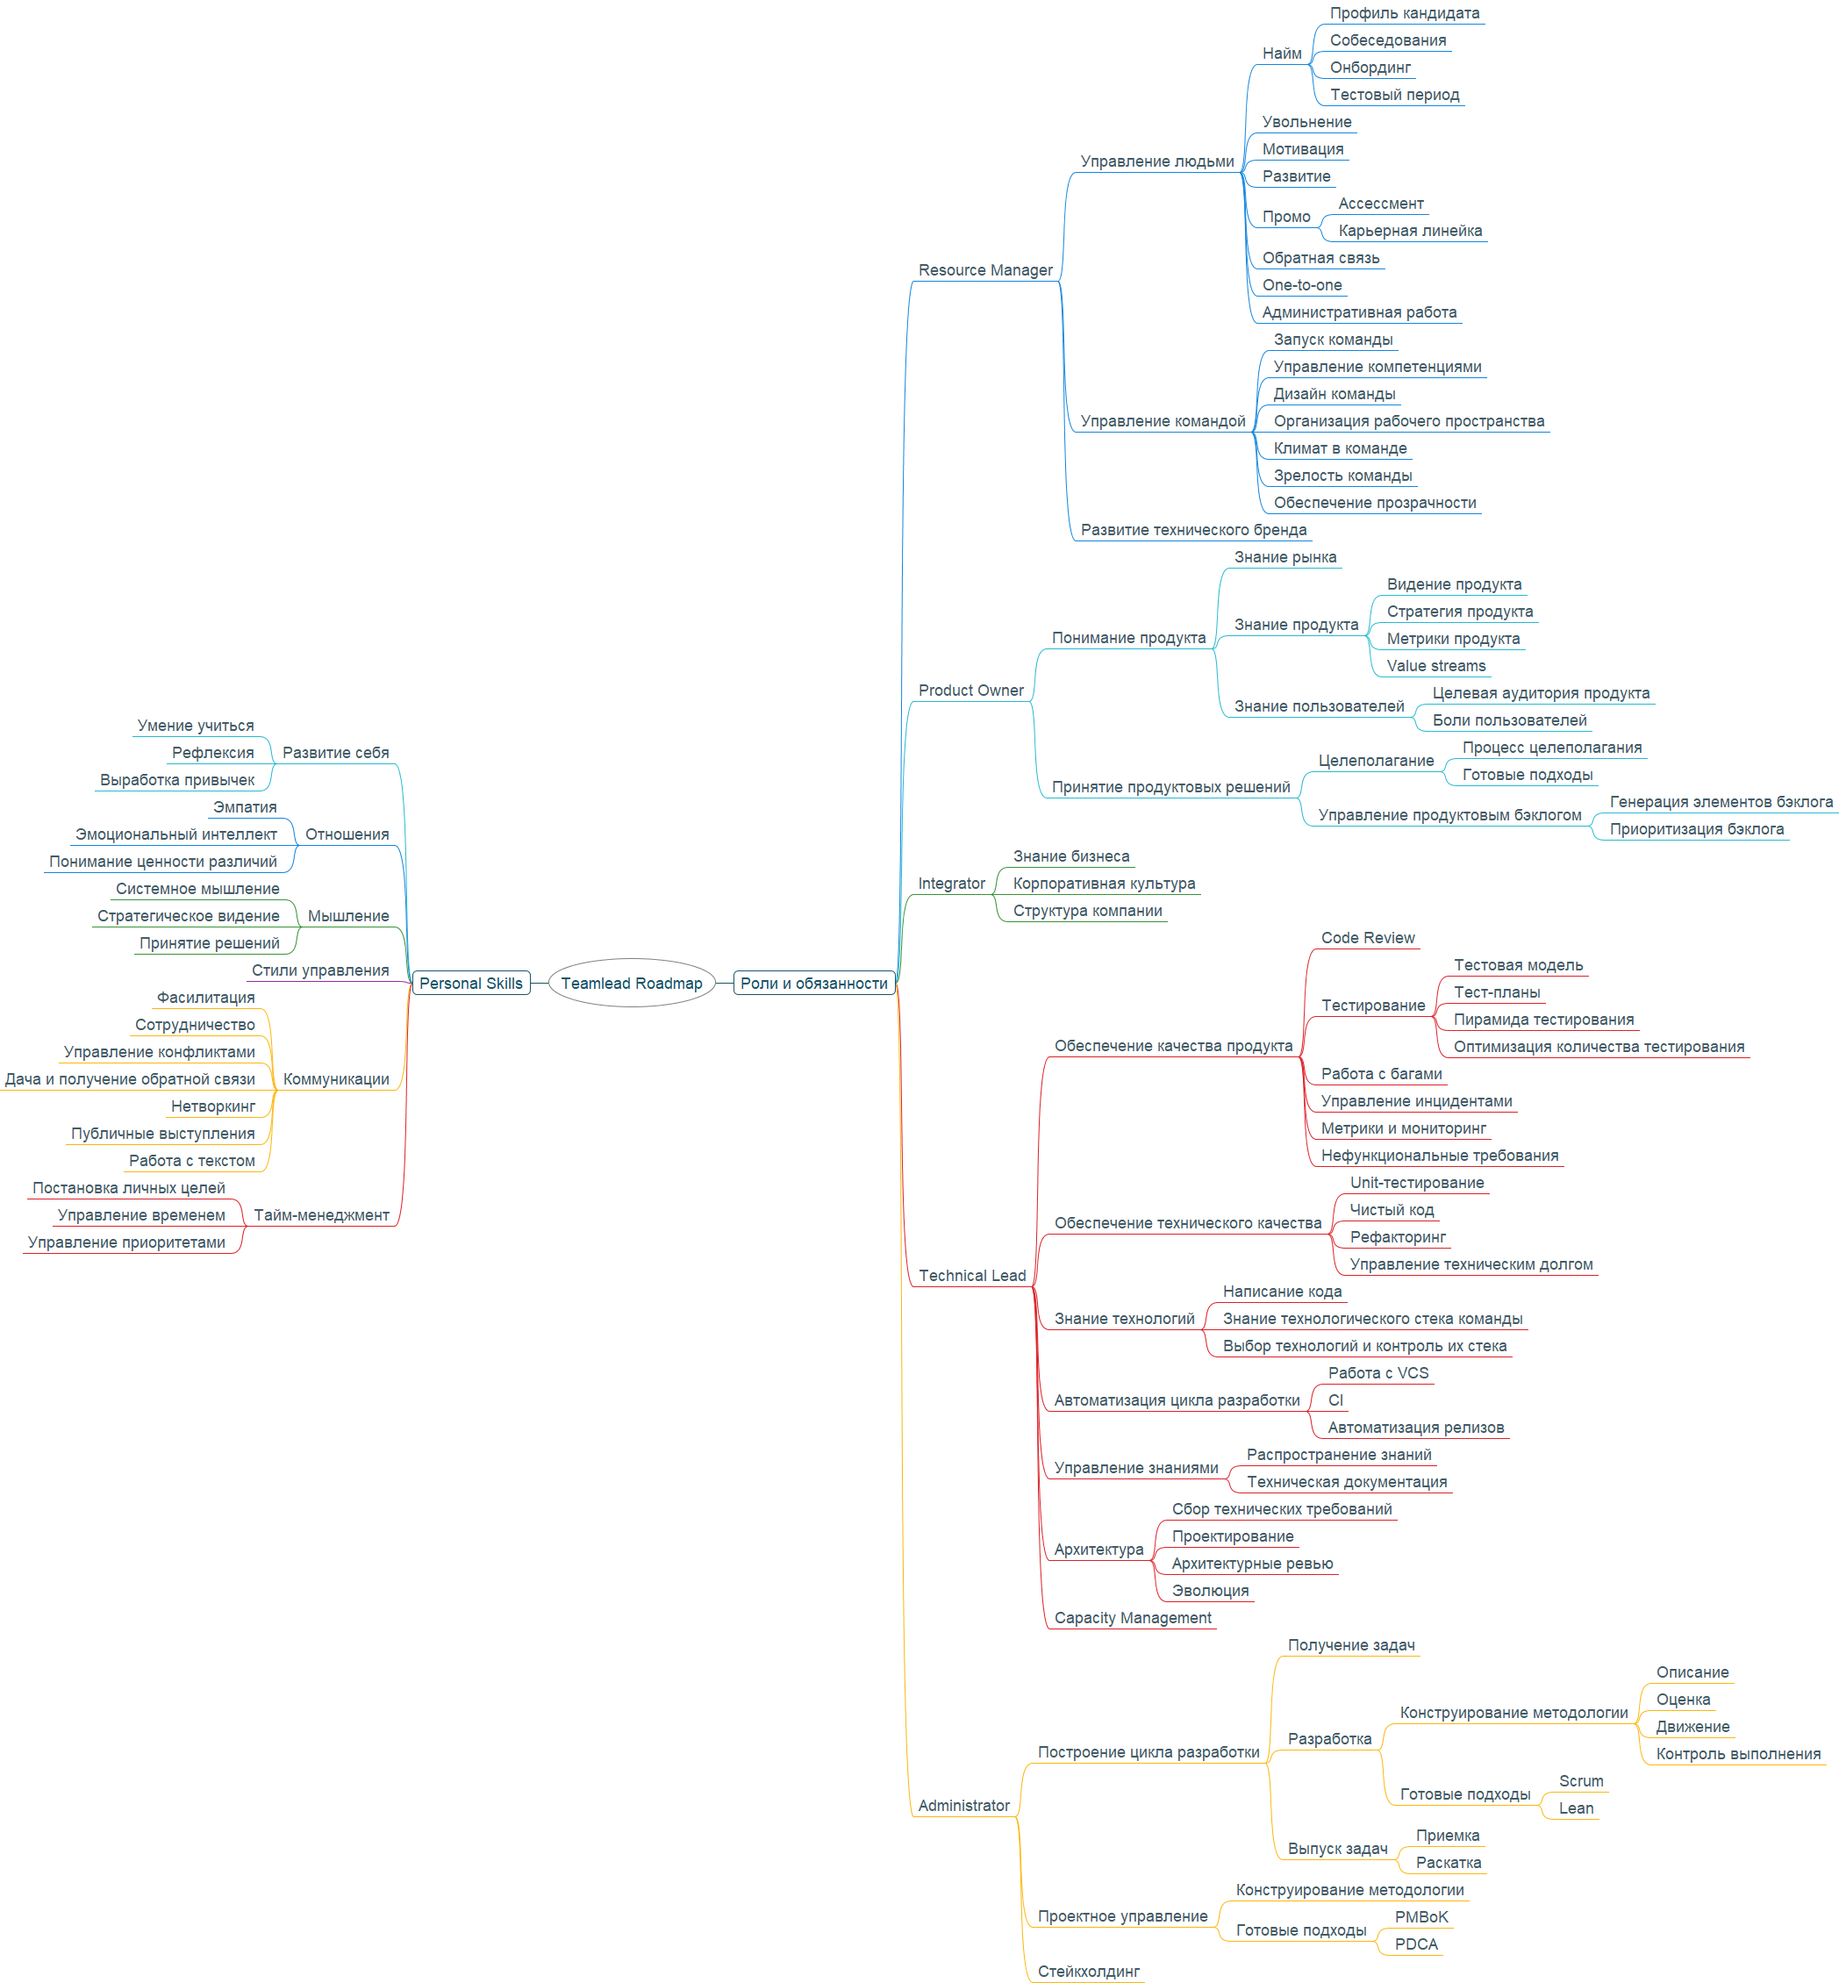
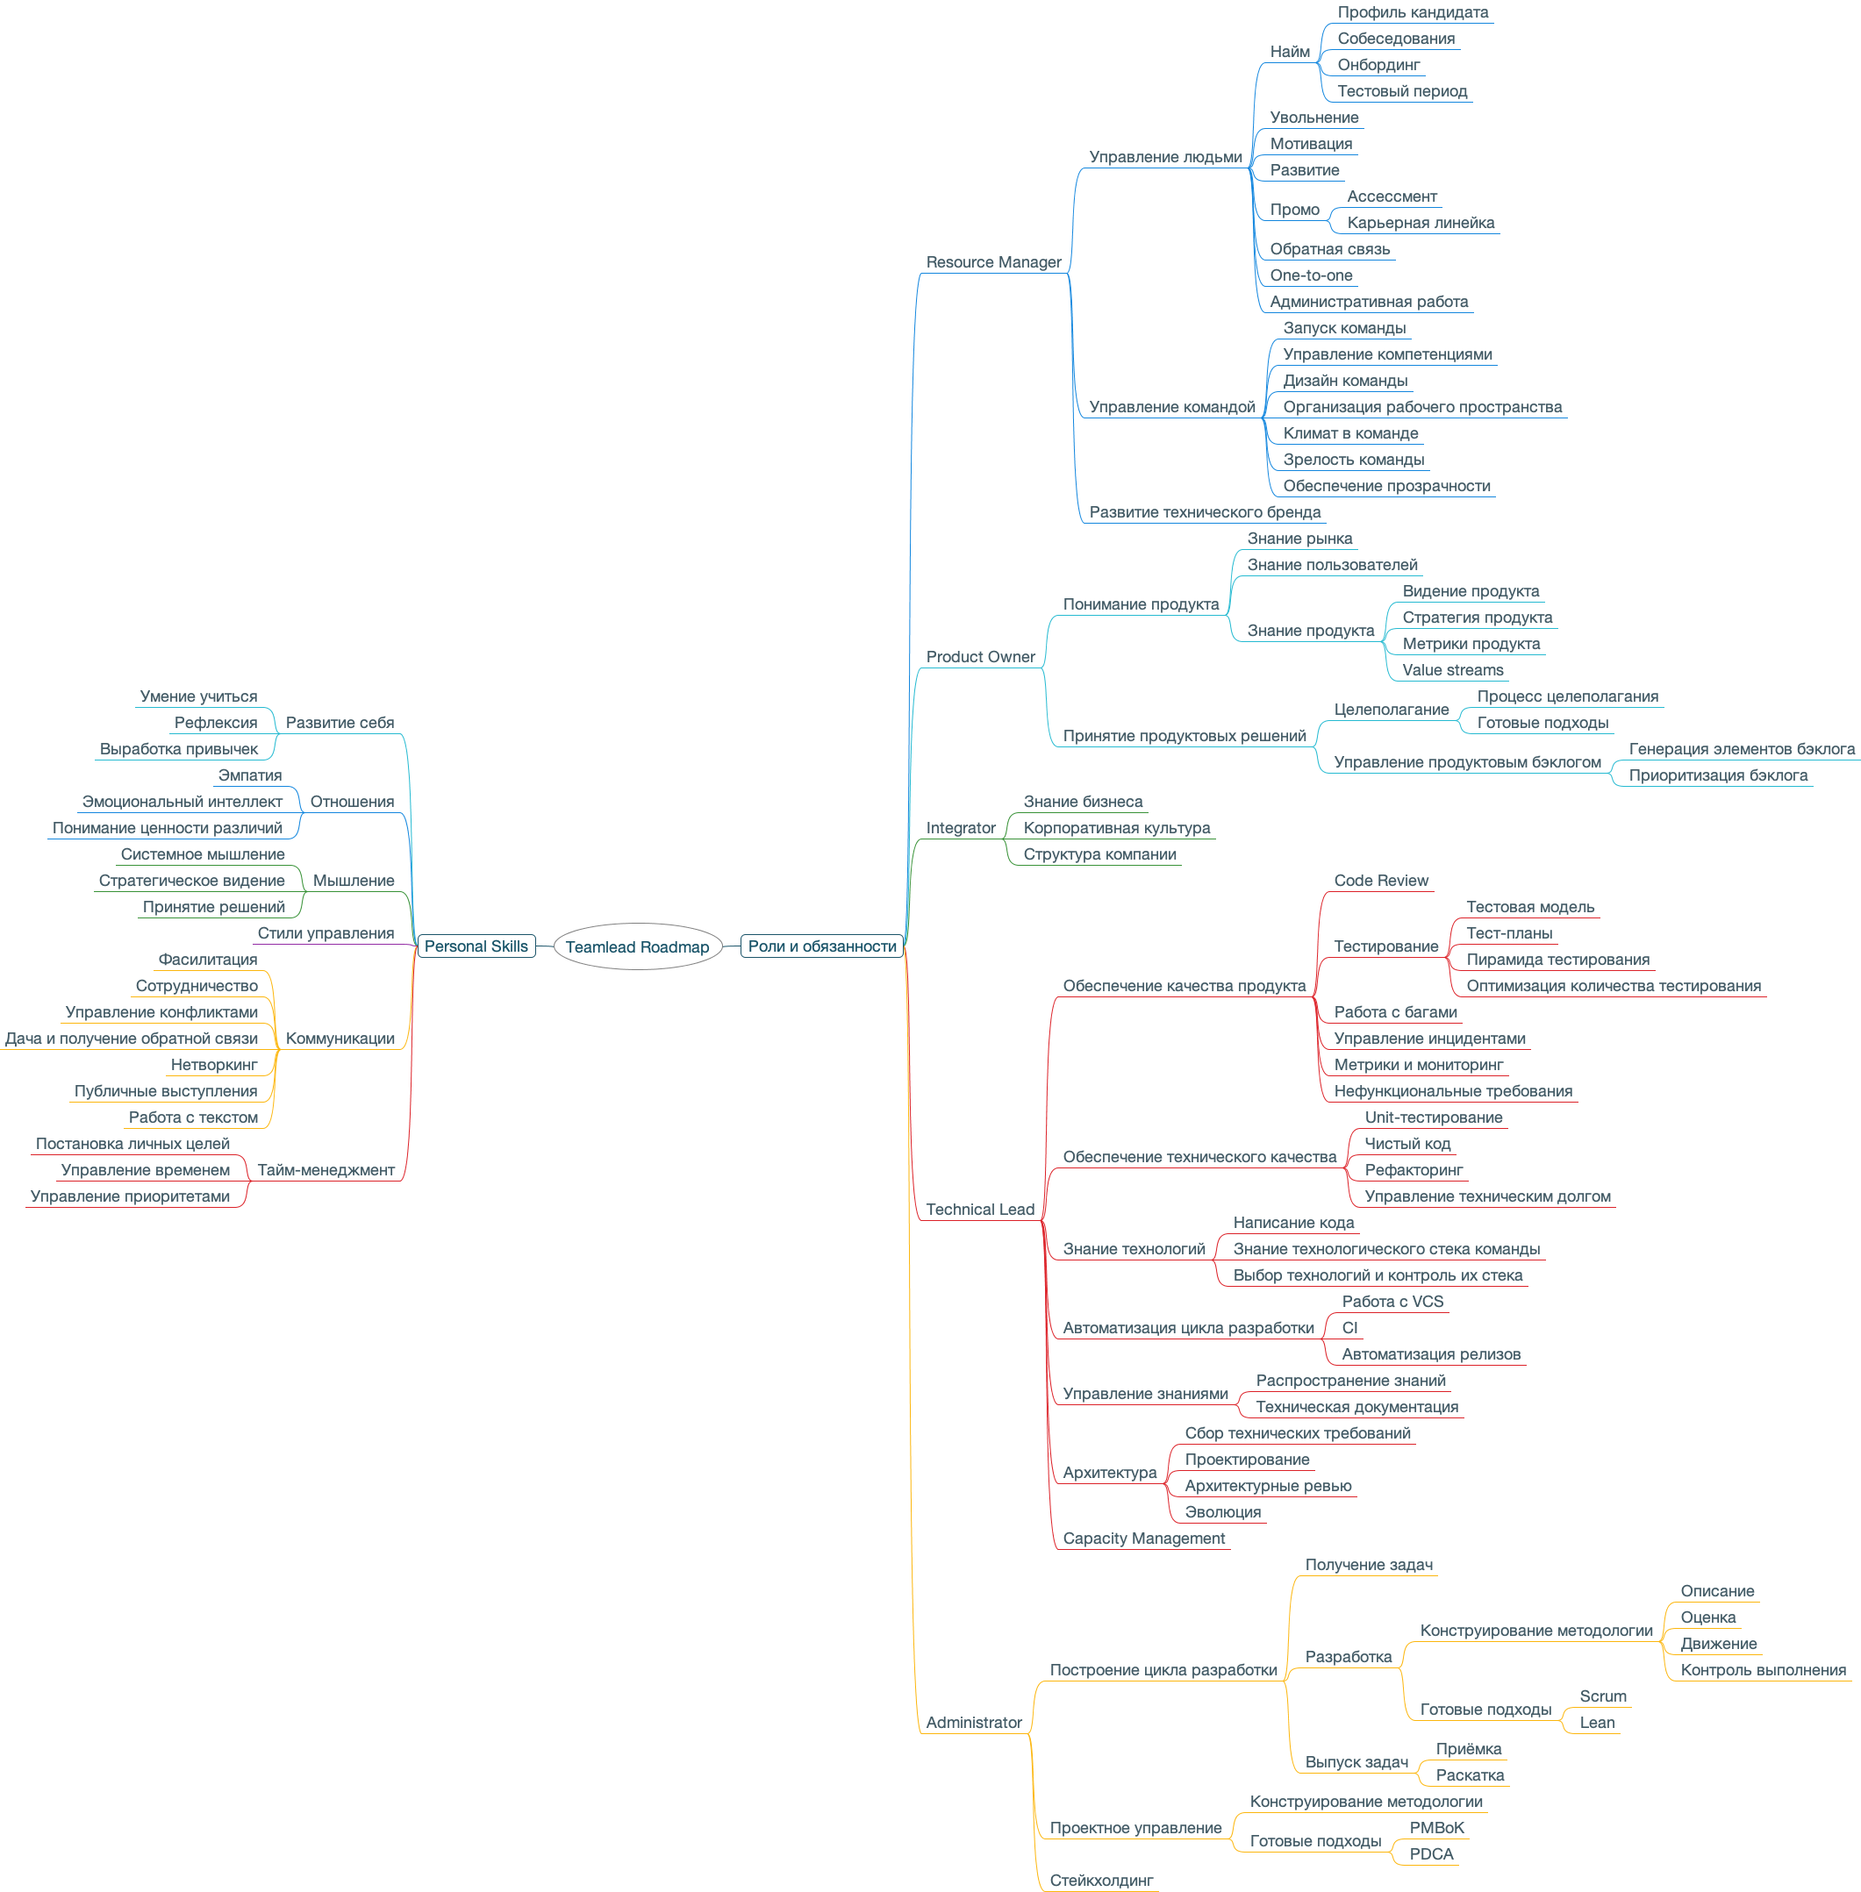
Обновил карту

diff --git a/roadmap.mm b/roadmap.mm
@@ -116,6 +116,10 @@
 <edge COLOR="#25bad1" WIDTH="1"/>
 <font NAME="Helvetica Neue" SIZE="18"/>
 </node>
+<node COLOR="#435b66" CREATED="1564322984026" ID="3DB399D7-E877-44D2-83E7-0AB86924F7B2" MODIFIED="1564323588234" STYLE="fork" TEXT="&#x417;&#x43d;&#x430;&#x43d;&#x438;&#x435; &#x43f;&#x43e;&#x43b;&#x44c;&#x437;&#x43e;&#x432;&#x430;&#x442;&#x435;&#x43b;&#x435;&#x439;">
+<edge COLOR="#25bad1" WIDTH="1"/>
+<font NAME="Helvetica Neue" SIZE="18"/>
+</node>
 <node COLOR="#435b66" CREATED="1564322984025" ID="8739A72C-B769-4A2B-B43C-C92402107460" MODIFIED="1564323588234" STYLE="fork" TEXT="&#x417;&#x43d;&#x430;&#x43d;&#x438;&#x435; &#x43f;&#x440;&#x43e;&#x434;&#x443;&#x43a;&#x442;&#x430;">
 <edge COLOR="#25bad1" WIDTH="1"/>
 <font NAME="Helvetica Neue" SIZE="18"/>
@@ -132,18 +136,6 @@
 <font NAME="Helvetica Neue" SIZE="18"/>
 </node>
 <node COLOR="#435b66" CREATED="1564322984026" ID="6FC4A713-BFA1-4D03-A564-3B553B8D54FB" MODIFIED="1564323588234" STYLE="fork" TEXT="Value streams">
-<edge COLOR="#25bad1" WIDTH="1"/>
-<font NAME="Helvetica Neue" SIZE="18"/>
-</node>
-</node>
-<node COLOR="#435b66" CREATED="1564322984026" ID="3DB399D7-E877-44D2-83E7-0AB86924F7B2" MODIFIED="1564323588234" STYLE="fork" TEXT="&#x417;&#x43d;&#x430;&#x43d;&#x438;&#x435; &#x43f;&#x43e;&#x43b;&#x44c;&#x437;&#x43e;&#x432;&#x430;&#x442;&#x435;&#x43b;&#x435;&#x439;">
-<edge COLOR="#25bad1" WIDTH="1"/>
-<font NAME="Helvetica Neue" SIZE="18"/>
-<node COLOR="#435b66" CREATED="1564322984026" ID="67A69D6C-E389-4917-8CFF-C92931705A8C" MODIFIED="1564323588234" STYLE="fork" TEXT="&#x426;&#x435;&#x43b;&#x435;&#x432;&#x430;&#x44f; &#x430;&#x443;&#x434;&#x438;&#x442;&#x43e;&#x440;&#x438;&#x44f; &#x43f;&#x440;&#x43e;&#x434;&#x443;&#x43a;&#x442;&#x430;">
-<edge COLOR="#25bad1" WIDTH="1"/>
-<font NAME="Helvetica Neue" SIZE="18"/>
-</node>
-<node COLOR="#435b66" CREATED="1564322984026" ID="69A6BE81-A1B1-43AF-8FC8-AB5566B6B8C8" MODIFIED="1564323588234" STYLE="fork" TEXT="&#x411;&#x43e;&#x43b;&#x438; &#x43f;&#x43e;&#x43b;&#x44c;&#x437;&#x43e;&#x432;&#x430;&#x442;&#x435;&#x43b;&#x435;&#x439;">
 <edge COLOR="#25bad1" WIDTH="1"/>
 <font NAME="Helvetica Neue" SIZE="18"/>
 </node>
